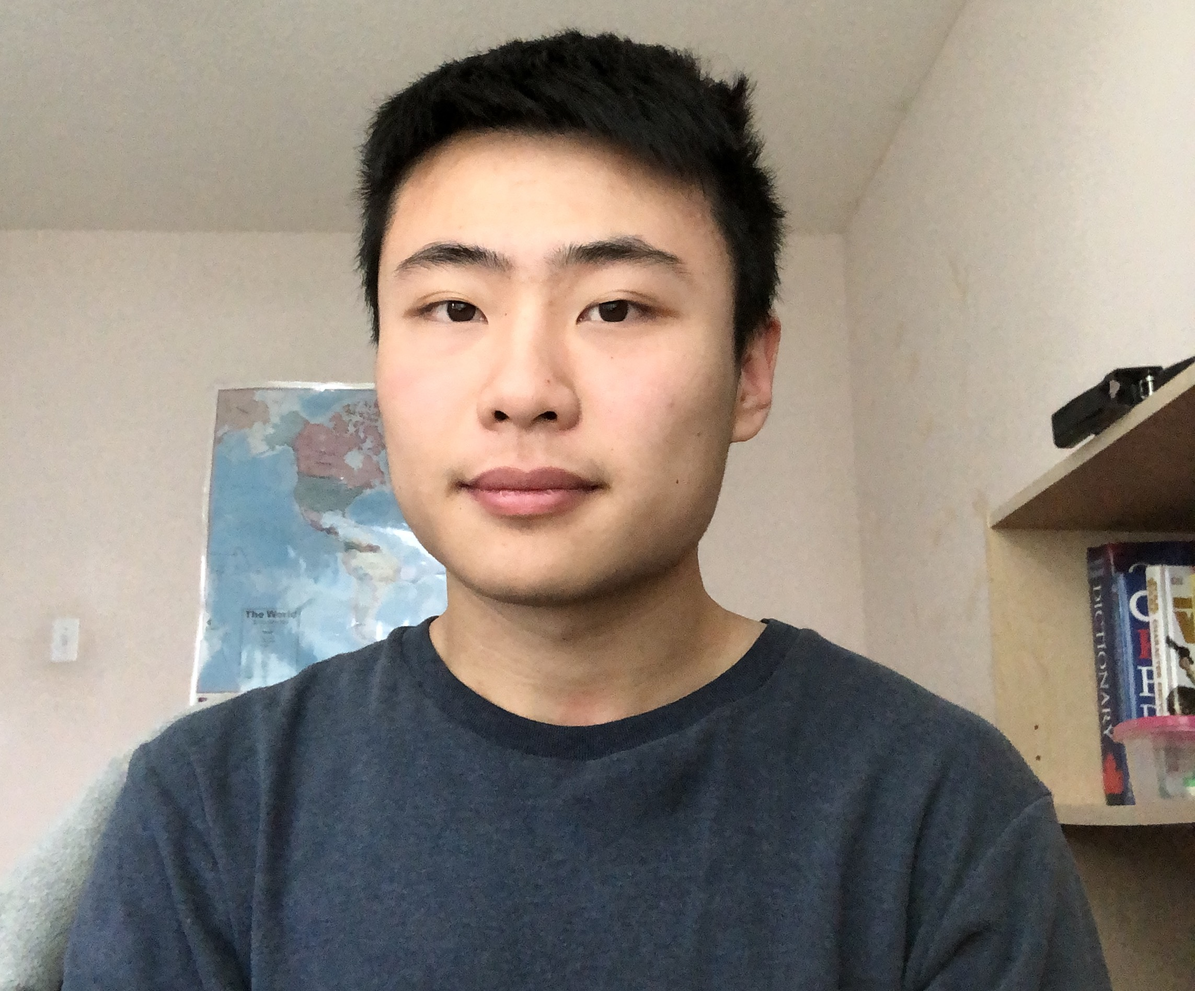
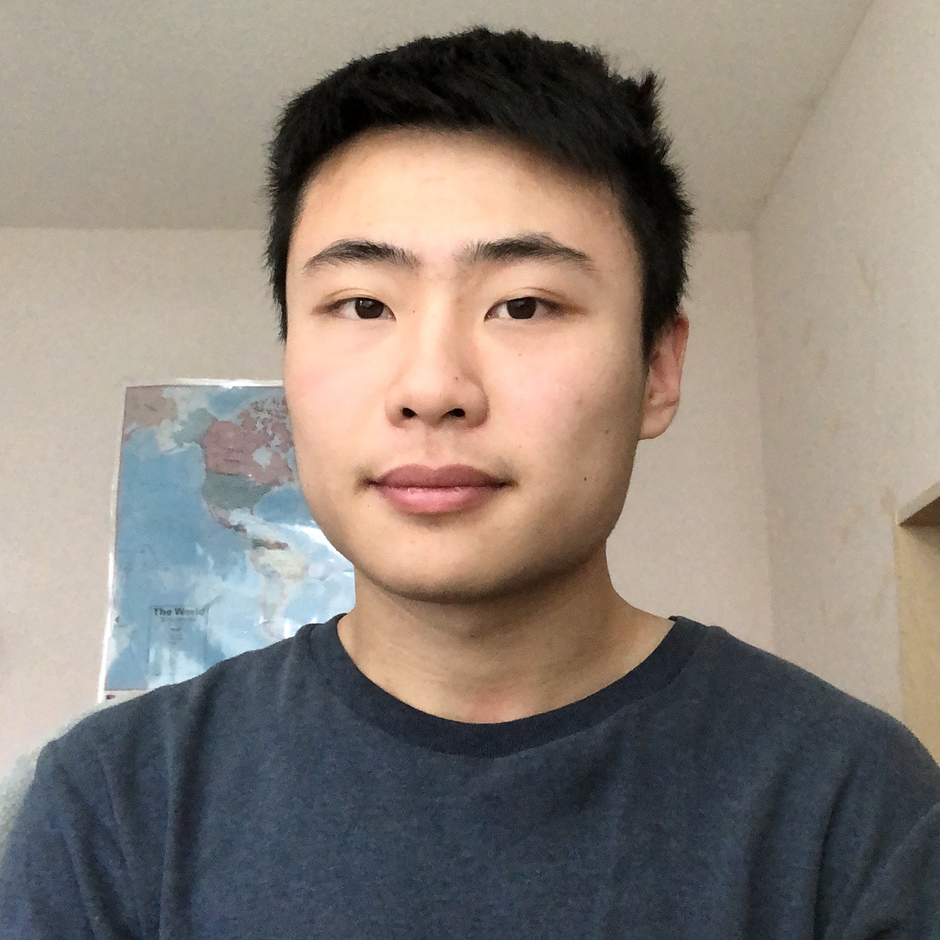
rounded profile pic

diff --git a/src/components/pages/Main.jsx b/src/components/pages/Main.jsx
@@ -31,7 +31,7 @@ class Index extends Component{
                 <img src={profilePic} alt="oops"></img>
                 <div className="profileCardBody">
                 <h1>Colin Lin</h1>
-                <p>Web Developer</p>
+                <p>Software Developer</p>
                 <p>Co-op Computer Science University of Toronto</p>
                 <div className="profileIcons">
     <a rel="noopener noreferrer" target='_blank' href="https://www.facebook.com/colincool100"> <FontAwesomeIcon color= '#3b5998' icon={faFacebook} size='2x'/></a>
@@ -59,7 +59,7 @@ class Index extends Component{
                 <div className="aboutHeader">
                     <h1>About Me</h1>
                     <div className='aboutUnderline'></div>
-                <p>Hi, my name is Colin. I'm an aspiring web developer with experience in both frontend UX design and backend API development. 
+                <p>Hi, my name is Colin. I'm an aspiring software developer with experience in both frontend UX design and backend API development. 
                    I describe myself as someone who is ambitious, a quick learner, and has a passion for developing software with a positive social impact.
                 </p>
                 </div>

diff --git a/src/components/pages/styles/Main.css b/src/components/pages/styles/Main.css
@@ -101,8 +101,9 @@ body{
   height:65%
 }
 .profileCard img{
-  width:100%;
-  height:30%
+  width:15rem;
+  height:15rem;
+  border-radius:50%;
 }
 .profileCard p{
   margin-bottom:0;
@@ -280,11 +281,17 @@ body{
     display:flex;
   }
   .profileCard{
-    box-shadow: 0 4px 8px 0 rgba(0, 0, 0, 0.2);
+    box-shadow: 0 4px 8px 5px rgba(0, 0, 0, 0.2);
     max-width: 19vw;
     text-align: center;
     padding:0em
 
+  }
+  .profileCard img{
+    margin-top:1rem;
+    width:12rem;
+    height:12rem;
+    border-radius:50%;
   }
   .profileAboutCard{
     box-shadow: 0 2px 12px 0px rgba(0, 0, 0, 0.2);
@@ -317,10 +324,6 @@ body{
     height:70%;
     padding:1.5em;
     text-align:start
-  }
-  .profileCard img{
-    width:100%;
-    height:30%
   }
   .profileCard{
     margin:0;
